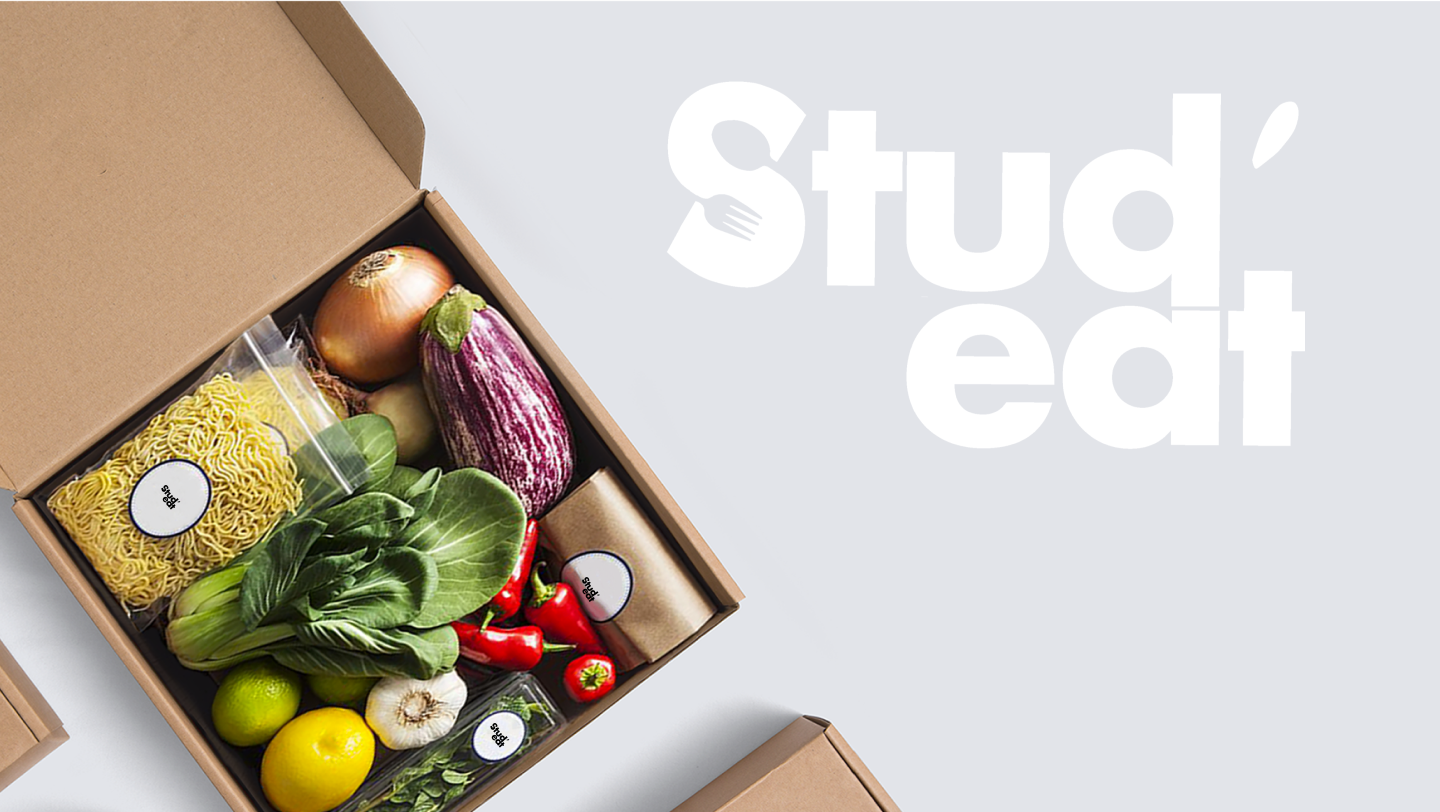
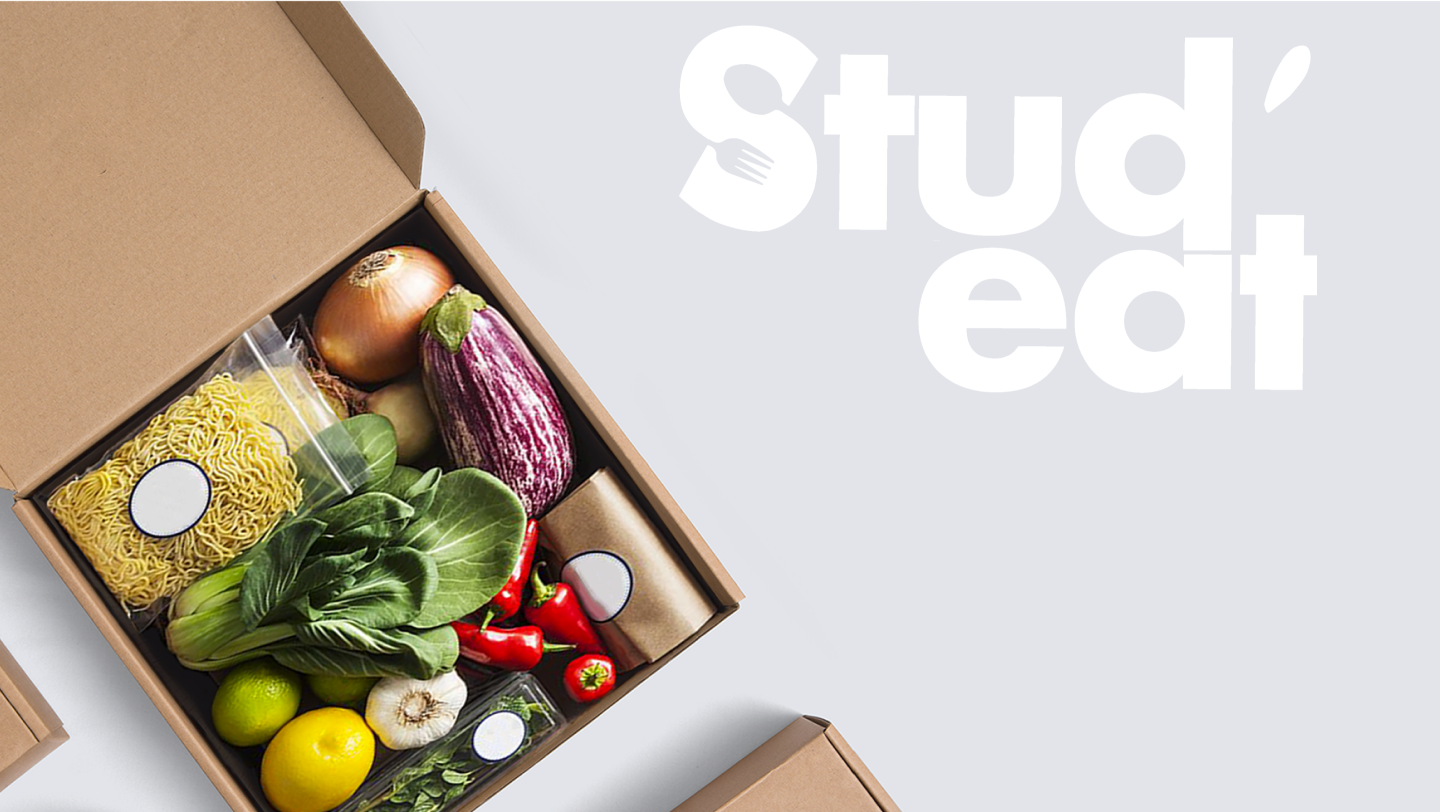
modify line height, grey and hero text

diff --git a/src/Containers/AboutContainer/AboutContainer.js b/src/Containers/AboutContainer/AboutContainer.js
@@ -8,7 +8,7 @@ const AboutContainer = () => {
             Quel étudiant n'a jamais rêvé de se faire livrer des produits frais avec une recette pour les cuisiner, et tout cela... à petit prix !<br /><br />
             C'est le pari fou que se sont lancés les six créateurs de Stud'Eat (HEC, Strate, 42) pour répondre aux attentes des étudiants.<br />
             Leur but est de permettre aux étudiants de toute la France d'être approvisionnés en produits frais locaux et bon marchés en un clic.<br />
-            Pour surmonter ce défi, ils s'associent pour le moment avec des coopératives de la région parisienne et une entreprise de livraison de produits frais.<br />
+            Pour surmonter ce défi, ils s'associent pour le moment avec des coopératives de la région parisienne et une entreprise de livraison de produits frais.<br /><br />
             Tu es étudiant ? Stud'Eat est fait pour toi ! Plutôt flemmard ? Pas de problème, Stud'Eat te propose une sélection de paniers touts faits avec les recettes associées pour cuisiner les aliments. Au contraire, si tu tiens à choisir scrupuleusement tes repas, Stud'Eat a aussi pensé à toi. Tu peux facilement composer ton propre panier d'aliments frais sur l'appli et on te propose des recettes associées pour te régaler ! Et tout cela à moindre coûts avec un système d'abonnement ou d'achat à l'unité (6€ maximum par repas).<br /><br />
             Vous êtes commerçant ou responsable d'une coopérative ? Stud'Eat vous propose d'écouler vos stocks auprès des étudiants qui n'ont pas le temps ou les moyens de venir s'approvisionner chez vous. Grâce aux économies d'échelle, vos produits deviendront abordables même pour les plus petits budgets... De quoi en faire saliver plus d'un !<br /><br /><br />
             N'attendez plus et foncez chez Stud'Eat !

diff --git a/src/Components/HeroComponent/Hero.scss b/src/Components/HeroComponent/Hero.scss
@@ -17,7 +17,7 @@
         margin-right: 0%;
     }
     margin-right: 5%;
-    margin-top: 35%;
+    margin-top: 32%;
 }
 
 // .HeroLogo {
@@ -31,6 +31,7 @@
 .studEatDescriptionContainer {
     width: 50%;
     margin-left: auto;
+    padding-left: 3%;
 }
 
 .studEatTitle {

diff --git a/src/Components/StudentComponent/StudentComponent.scss b/src/Components/StudentComponent/StudentComponent.scss
@@ -11,7 +11,7 @@
 .studentProductTitle {
     @media screen and (max-width: 425px) {
         font-size: 15px;
-        line-height: 11px;
+        line-height: 15px;
     }
     font-family: Roboto, sans-serif;
     font-weight: 900;

diff --git a/src/Components/LocalProductComponent/LocalProductComponent.scss b/src/Components/LocalProductComponent/LocalProductComponent.scss
@@ -11,7 +11,7 @@
 .localProductTitle {
     @media screen and (max-width: 425px) {
         font-size: 15px;
-        line-height: 11px;
+        line-height: 15px;
     }
     font-family: Roboto, sans-serif;
     font-weight: 900;

diff --git a/src/Components/RecupComponent/RecupComponent.scss b/src/Components/RecupComponent/RecupComponent.scss
@@ -11,7 +11,7 @@
 .recupProductTitle {
     @media screen and (max-width: 425px) {
         font-size: 15px;
-        line-height: 11px;
+        line-height: 15px;
     }
     font-family: Roboto, sans-serif;
     font-weight: 900;

diff --git a/src/Components/LittlePriceComponent/LittlePriceComponent.scss b/src/Components/LittlePriceComponent/LittlePriceComponent.scss
@@ -11,7 +11,7 @@
 .littlePriceTitle {
     @media screen and (max-width: 425px) {
         font-size: 15px;
-        line-height: 11px;
+        line-height: 15px;
     }
     font-family: Roboto, sans-serif;
     font-weight: 900;

diff --git a/src/Components/FooterComponent/FooterComponent.scss b/src/Components/FooterComponent/FooterComponent.scss
@@ -1,5 +1,5 @@
 .footerContainer {
-    margin-top: 10%;
+    margin-top: 7%;
     display: flex;
 }
 
